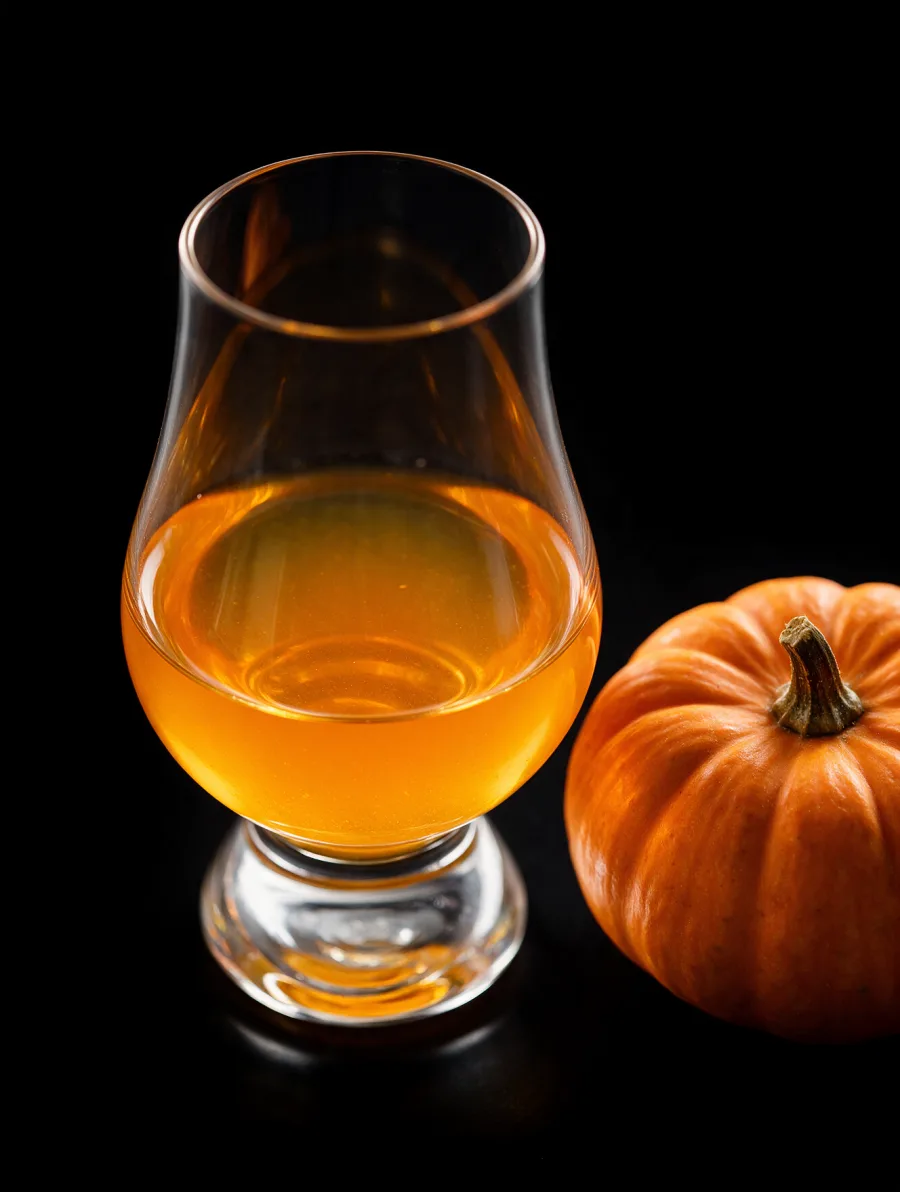
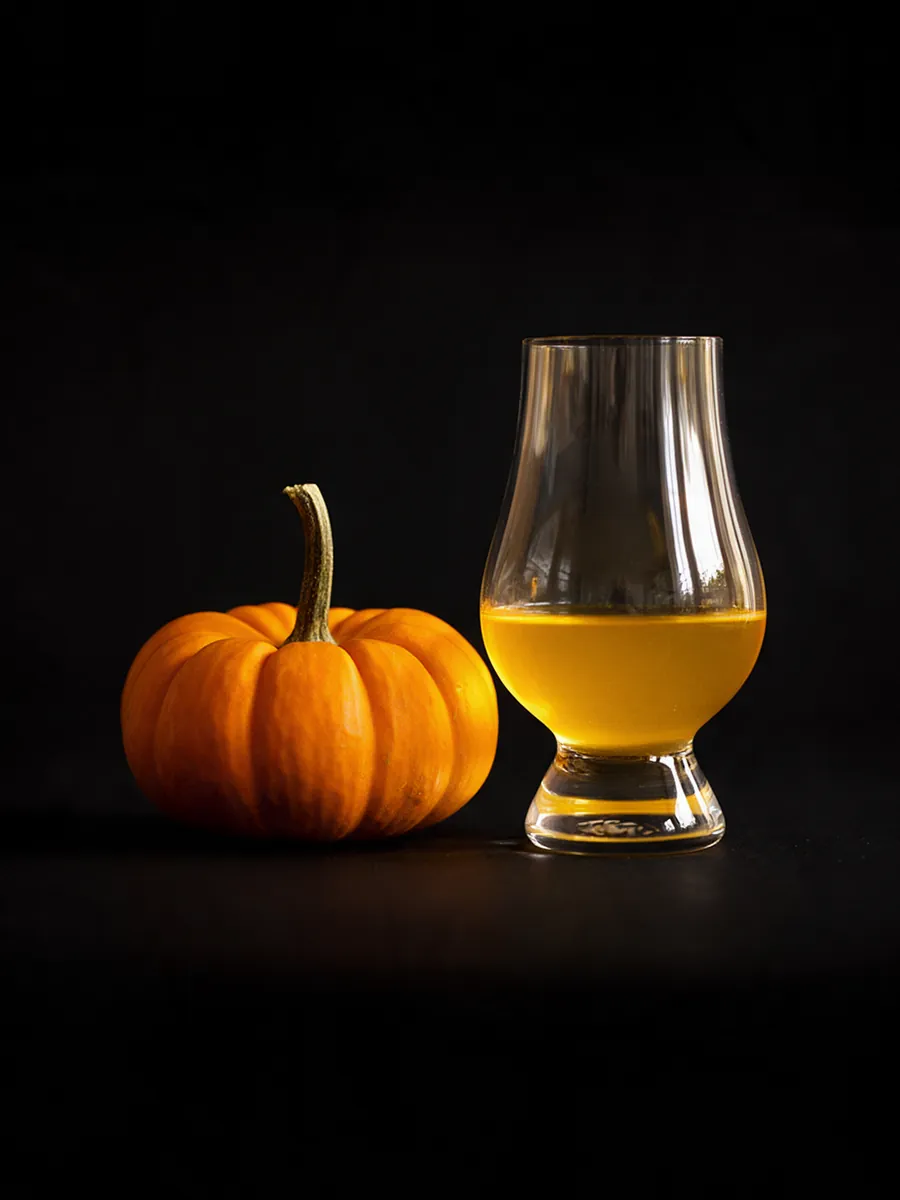
fix(excursions): AI-фото tex-group без обличчя (обрізано), гарбузівка — гарбуз повністю в кадрі (перегенеровано)

diff --git a/reports/media-generation.md b/reports/media-generation.md
@@ -29,3 +29,7 @@
 3. Келих гарбузівки (або пляшка, якщо буде в каталозі) на чорному, портрет 3:4.
 4. Дегустаційні сети 4 і 8 келихів із закусками; зал дегустації з бочками-столами (тло «Ціни», темна ділянка під текст).
 5. Вітрина магазину при дистилерії (≈ 6:5).
+
+## Правки після незалежної перевірки (16.10.2026)
+- `excursions-tex-group.webp`: на краю кадру було видно частину обличчя — файл обрізано (кадр 40…1004 px по x, 0…964 по y, збільшено до 1024²); облич у кадрі немає. Без нових кредитів.
+- `excursions-pumpkin.webp`: гарбуз був обрізаний по правому краю самого файла. Перегенеровано Seedream 5 Pro (3:4, без людей/тексту/пляшки; 2 спроби × 100 кредитів — перша знову торкалась краю), кадр обрізано до 900×1200 так, щоб келих і гарбуз повністю в кадрі з чорним полем. Знову ЧЕРНЕТКА (AI).
